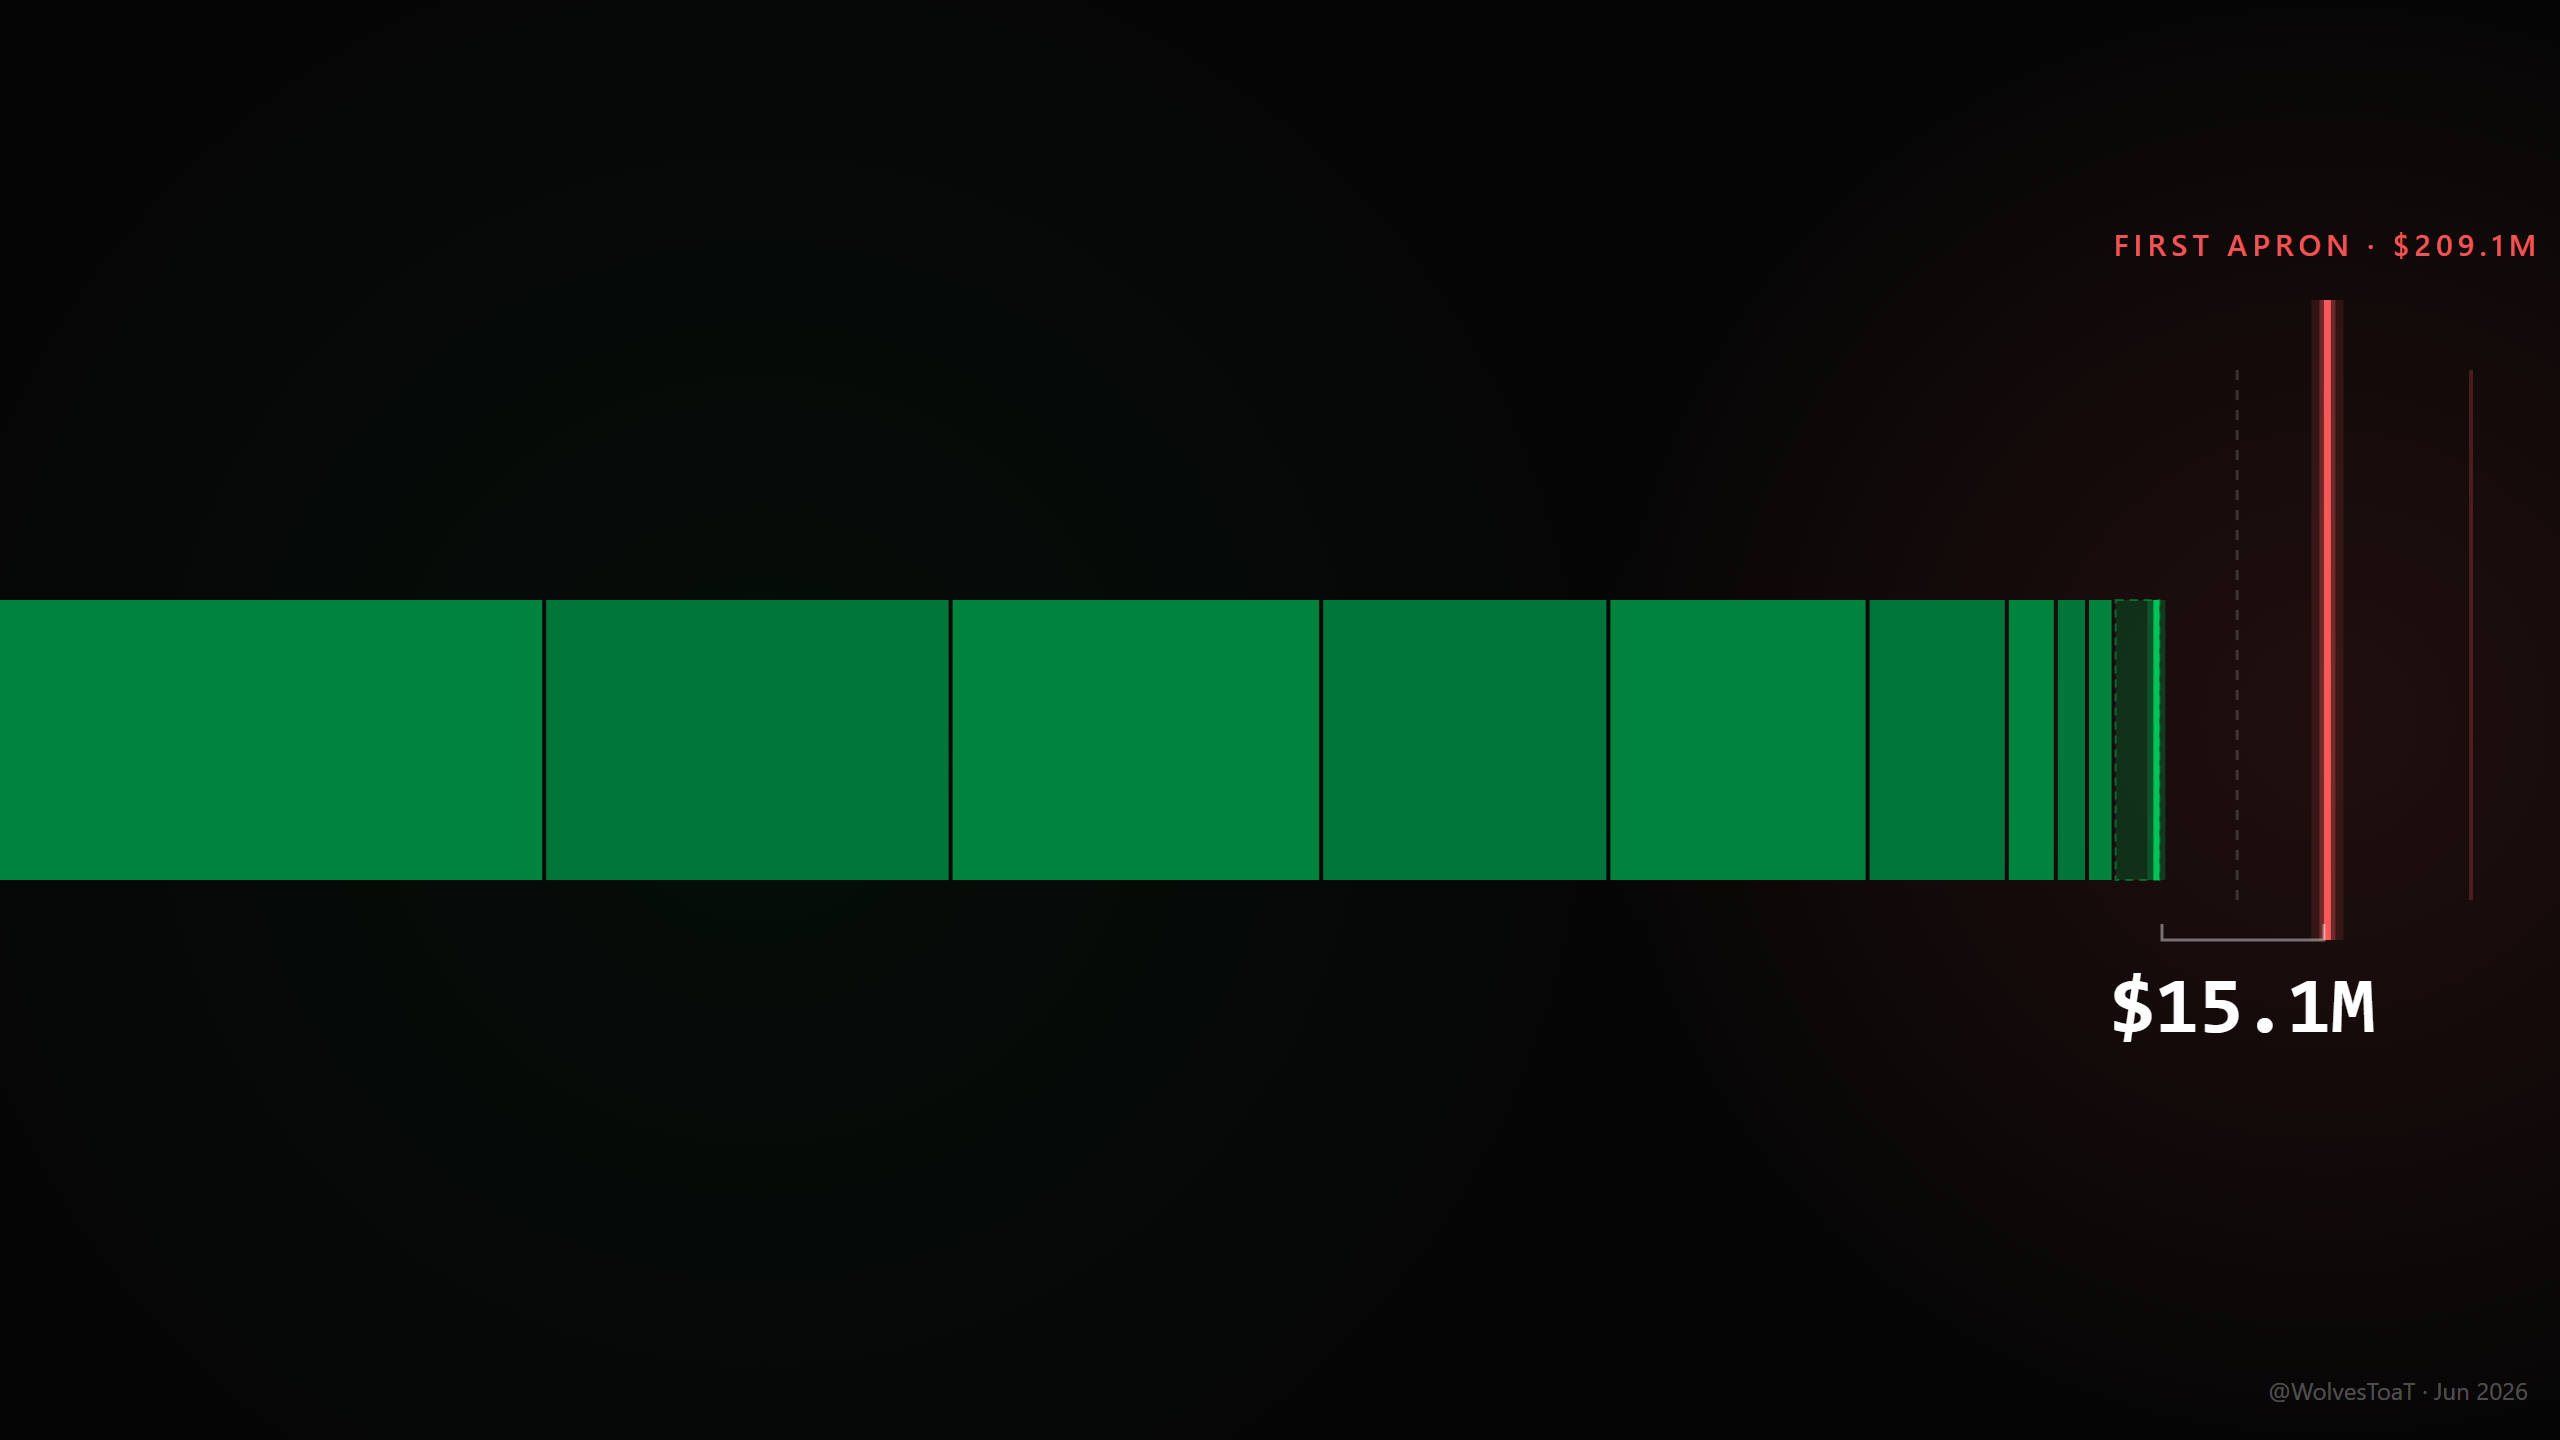
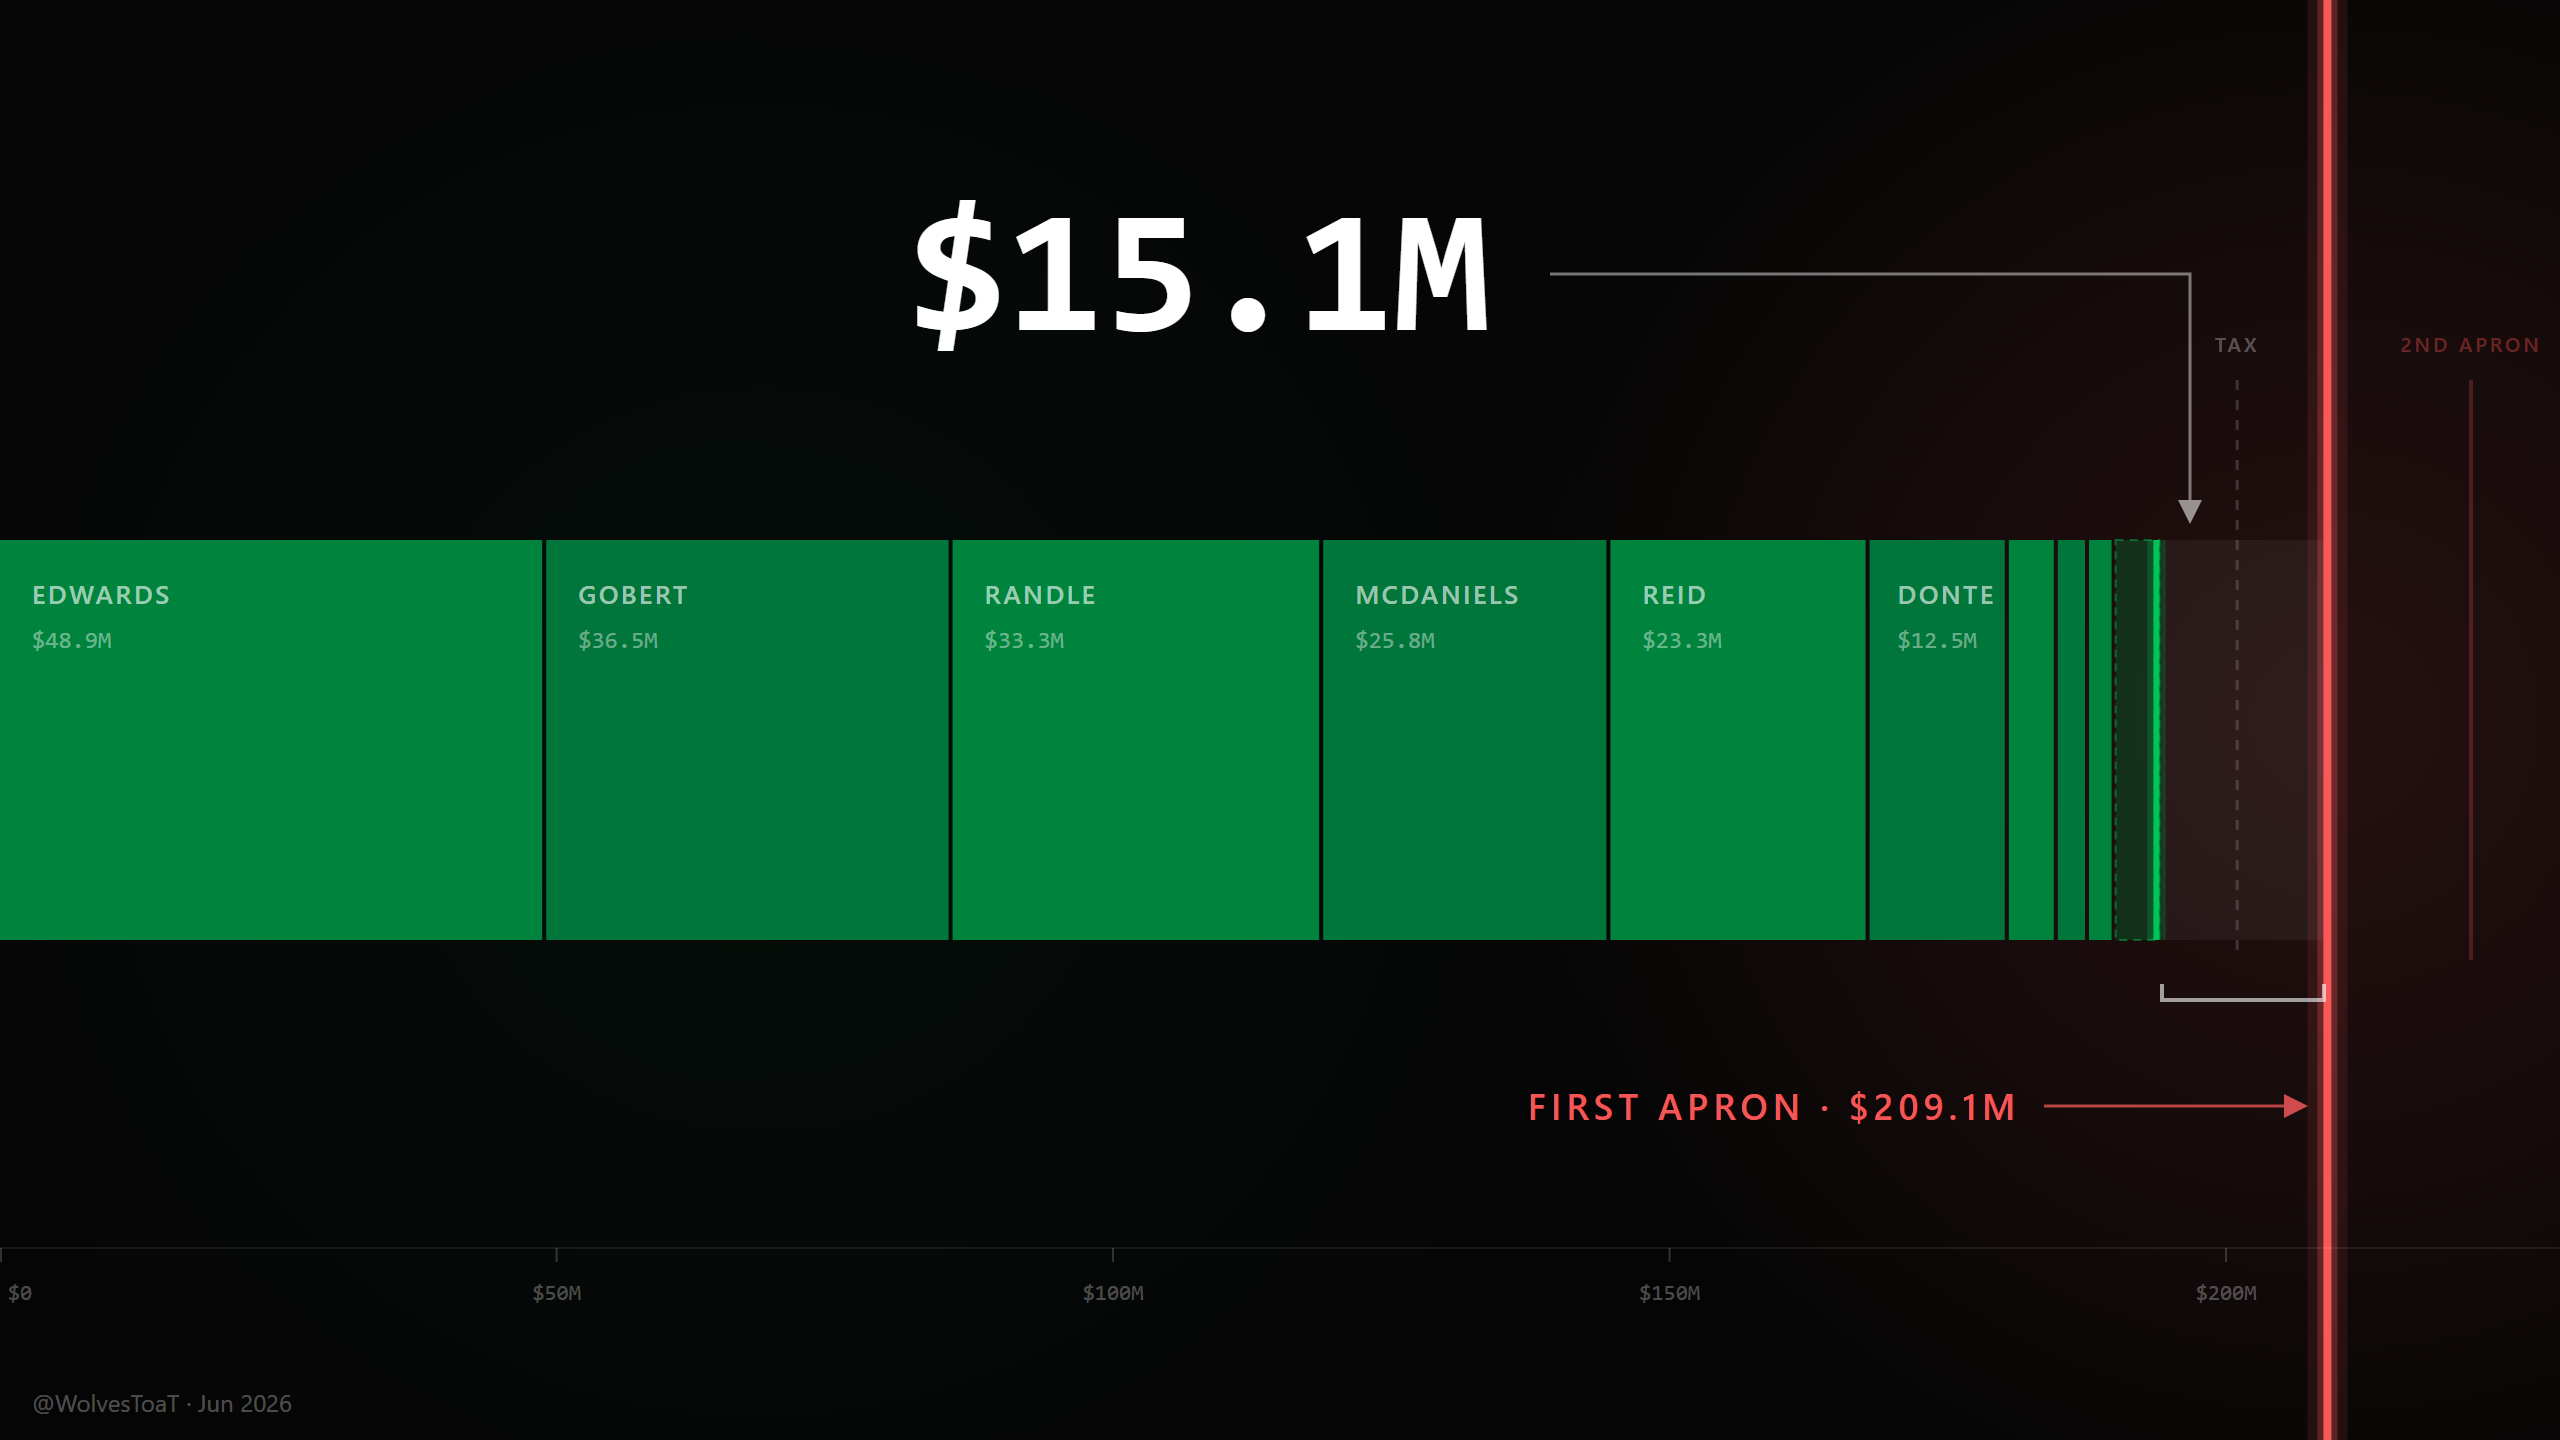
Thumb v2: fill the frame, callout style per red pen
Contract names inside the segments, true-scale ruler, full-bleed apron
wall, hero $15.1M in the open middle with a leader into the gap, FIRST
APRON callout pointing at the line.

diff --git a/offseason/outputs/charts/piece1_situation/situation_thumb.html b/offseason/outputs/charts/piece1_situation/situation_thumb.html
@@ -2,14 +2,14 @@
 <!-- Piece 1 thumbnail, 16:9. True scale: $0 to $230M across 1280px (5.5652 px per $M).
      The bar is the real 2026-27 books, nine contracts plus the roster charge stub,
      each segment at its true width. Walls: tax $201M (faint), first apron $209.1M
-     (the one that matters), second apron $222M (dim). Gap = $15.1M.
+     (full bleed, the one that matters), second apron $222M (dim). Gap = $15.1M.
      Glows are layered strokes, not filters: a filter on a zero-width line collapses
      its bounding box and the element disappears. -->
 <svg width="1280" height="720" viewBox="0 0 1280 720" xmlns="http://www.w3.org/2000/svg">
 <defs>
   <radialGradient id="amb-red" cx="50%" cy="50%" r="50%">
-    <stop offset="0%" stop-color="#FF5C5C" stop-opacity="0.11"/>
-    <stop offset="60%" stop-color="#FF5C5C" stop-opacity="0.05"/>
+    <stop offset="0%" stop-color="#FF5C5C" stop-opacity="0.13"/>
+    <stop offset="60%" stop-color="#FF5C5C" stop-opacity="0.06"/>
     <stop offset="100%" stop-color="#FF5C5C" stop-opacity="0"/>
   </radialGradient>
   <radialGradient id="amb-green" cx="50%" cy="50%" r="50%">
@@ -22,53 +22,101 @@
 
 <!-- ambient depth, soft falloff -->
 <circle cx="380" cy="380" r="460" fill="url(#amb-green)"/>
-<circle cx="1164" cy="360" r="380" fill="url(#amb-red)"/>
+<circle cx="1164" cy="360" r="420" fill="url(#amb-red)"/>
 
 <!-- tax line, $201M, faint dashed -->
-<line x1="1118.6" y1="185" x2="1118.6" y2="450" stroke="rgba(255,255,255,0.16)" stroke-width="1.5" stroke-dasharray="5,5"/>
+<line x1="1118.6" y1="190" x2="1118.6" y2="480" stroke="rgba(255,255,255,0.16)" stroke-width="1.5" stroke-dasharray="5,5"/>
+<text x="1118.6" y="176" text-anchor="middle" fill="rgba(255,255,255,0.30)"
+  font-family="Segoe UI, Inter, sans-serif" font-size="10" font-weight="600" letter-spacing="1.5">TAX</text>
 <!-- second apron, $222M, dim -->
-<line x1="1235.5" y1="185" x2="1235.5" y2="450" stroke="#FF5C5C" stroke-width="2" opacity="0.22"/>
-<!-- first apron, $209.1M, the one that matters: layered manual glow -->
-<line x1="1163.7" y1="150" x2="1163.7" y2="470" stroke="#FF5C5C" stroke-width="16" opacity="0.12"/>
-<line x1="1163.7" y1="150" x2="1163.7" y2="470" stroke="#FF5C5C" stroke-width="8" opacity="0.28"/>
-<line x1="1163.7" y1="150" x2="1163.7" y2="470" stroke="#FF5C5C" stroke-width="3.5" opacity="0.95"/>
+<line x1="1235.5" y1="190" x2="1235.5" y2="480" stroke="#FF5C5C" stroke-width="2" opacity="0.22"/>
+<text x="1235.5" y="176" text-anchor="middle" fill="rgba(255,92,92,0.35)"
+  font-family="Segoe UI, Inter, sans-serif" font-size="10" font-weight="600" letter-spacing="1.5">2ND APRON</text>
 
-<text x="1163.7" y="128" text-anchor="middle" fill="#FF5C5C" opacity="0.92"
-  font-family="Segoe UI, Inter, sans-serif" font-size="15" font-weight="600" letter-spacing="2.5">FIRST APRON &#183; $209.1M</text>
+<!-- first apron, $209.1M: full bleed, layered manual glow -->
+<line x1="1163.7" y1="0" x2="1163.7" y2="720" stroke="#FF5C5C" stroke-width="20" opacity="0.10"/>
+<line x1="1163.7" y1="0" x2="1163.7" y2="720" stroke="#FF5C5C" stroke-width="10" opacity="0.26"/>
+<line x1="1163.7" y1="0" x2="1163.7" y2="720" stroke="#FF5C5C" stroke-width="4" opacity="0.95"/>
+
+<!-- the wall's callout, lower right, pointing at the line -->
+<text x="1010" y="560" text-anchor="end" fill="#FF5C5C" opacity="0.95"
+  font-family="Segoe UI, Inter, sans-serif" font-size="18" font-weight="600" letter-spacing="2.5">FIRST APRON &#183; $209.1M</text>
+<line x1="1022" y1="553" x2="1142" y2="553" stroke="rgba(255,92,92,0.7)" stroke-width="1.5"/>
+<path d="M 1142 547 L 1154 553 L 1142 559 Z" fill="rgba(255,92,92,0.8)"/>
 
 <!-- the books: nine contracts plus the roster charge stub, true widths, 2px seams -->
 <!-- Edwards 48.9 -->
-<rect x="0" y="300" width="271.1" height="140" fill="#00843D"/>
+<rect x="0" y="270" width="271.1" height="200" fill="#00843D"/>
 <!-- Gobert 36.5 -->
-<rect x="273.1" y="300" width="201.2" height="140" fill="#00763A"/>
+<rect x="273.1" y="270" width="201.2" height="200" fill="#00763A"/>
 <!-- Randle 33.3 -->
-<rect x="476.3" y="300" width="183.3" height="140" fill="#00843D"/>
+<rect x="476.3" y="270" width="183.3" height="200" fill="#00843D"/>
 <!-- McDaniels 25.8 -->
-<rect x="661.6" y="300" width="141.6" height="140" fill="#00763A"/>
+<rect x="661.6" y="270" width="141.6" height="200" fill="#00763A"/>
 <!-- Naz 23.3 -->
-<rect x="805.2" y="300" width="127.6" height="140" fill="#00843D"/>
+<rect x="805.2" y="270" width="127.6" height="200" fill="#00843D"/>
 <!-- DiVincenzo 12.5 -->
-<rect x="934.8" y="300" width="67.6" height="140" fill="#00763A"/>
+<rect x="934.8" y="270" width="67.6" height="200" fill="#00763A"/>
 <!-- Beringer 4.4 -->
-<rect x="1004.4" y="300" width="22.5" height="140" fill="#00843D"/>
+<rect x="1004.4" y="270" width="22.5" height="200" fill="#00843D"/>
 <!-- Shannon 2.8 -->
-<rect x="1028.9" y="300" width="13.6" height="140" fill="#00763A"/>
+<rect x="1028.9" y="270" width="13.6" height="200" fill="#00763A"/>
 <!-- Phillips 2.4 -->
-<rect x="1044.5" y="300" width="11.3" height="140" fill="#00843D"/>
+<rect x="1044.5" y="270" width="11.3" height="200" fill="#00843D"/>
 <!-- roster charges 4.1, a placeholder not a contract -->
-<rect x="1057.8" y="300" width="21.9" height="140" fill="#00843D" fill-opacity="0.30"
+<rect x="1057.8" y="270" width="21.9" height="200" fill="#00843D" fill-opacity="0.30"
   stroke="rgba(0,196,87,0.45)" stroke-width="1" stroke-dasharray="4,3"/>
 
+<!-- names inside the big segments: the books, readable -->
+<g font-family="Segoe UI, Inter, sans-serif" font-size="13" font-weight="600" letter-spacing="1.2" fill="rgba(255,255,255,0.62)">
+  <text x="16" y="302">EDWARDS</text>
+  <text x="289.1" y="302">GOBERT</text>
+  <text x="492.3" y="302">RANDLE</text>
+  <text x="677.6" y="302">MCDANIELS</text>
+  <text x="821.2" y="302">REID</text>
+  <text x="948.8" y="302">DONTE</text>
+</g>
+<g font-family="JetBrains Mono, Consolas, monospace" font-size="12" fill="rgba(255,255,255,0.42)">
+  <text x="16" y="324">$48.9M</text>
+  <text x="289.1" y="324">$36.5M</text>
+  <text x="492.3" y="324">$33.3M</text>
+  <text x="677.6" y="324">$25.8M</text>
+  <text x="821.2" y="324">$23.3M</text>
+  <text x="948.8" y="324">$12.5M</text>
+</g>
+
+<!-- the room itself, faintly lit -->
+<rect x="1082" y="270" width="79.7" height="200" fill="rgba(255,255,255,0.05)"/>
+
 <!-- leading edge of the money, manual glow -->
-<rect x="1073.7" y="300" width="9" height="140" fill="#00C457" opacity="0.25"/>
-<rect x="1076.7" y="300" width="3" height="140" fill="#00C457"/>
+<rect x="1073.7" y="270" width="9" height="200" fill="#00C457" opacity="0.25"/>
+<rect x="1076.7" y="270" width="3" height="200" fill="#00C457"/>
 
-<!-- the gap: bracket plus the only big number -->
-<path d="M 1081 462 L 1081 470 L 1162 470 L 1162 462" fill="none" stroke="rgba(255,255,255,0.42)" stroke-width="1.5"/>
-<text x="1121.5" y="516" text-anchor="middle" fill="#FFFFFF"
-  font-family="JetBrains Mono, Consolas, monospace" font-size="40" font-weight="700">$15.1M</text>
+<!-- the gap: bracket under it, hero number in the open middle, leader pointing in -->
+<path d="M 1081 492 L 1081 500 L 1162 500 L 1162 492" fill="none" stroke="rgba(255,255,255,0.6)" stroke-width="2"/>
+<text x="600" y="165" text-anchor="middle" fill="#FFFFFF"
+  font-family="JetBrains Mono, Consolas, monospace" font-size="88" font-weight="700">$15.1M</text>
+<path d="M 775 137 L 1095 137 L 1095 250" fill="none" stroke="rgba(255,255,255,0.45)" stroke-width="1.5"/>
+<path d="M 1089 250 L 1101 250 L 1095 262 Z" fill="rgba(255,255,255,0.55)"/>
 
-<!-- watermark -->
-<text x="1264" y="700" text-anchor="end" fill="rgba(255,255,255,0.30)"
+<!-- true-scale ruler along the bottom -->
+<line x1="0" y1="624" x2="1280" y2="624" stroke="rgba(255,255,255,0.08)" stroke-width="1"/>
+<g stroke="rgba(255,255,255,0.18)" stroke-width="1">
+  <line x1="0.5" y1="624" x2="0.5" y2="631"/>
+  <line x1="278.3" y1="624" x2="278.3" y2="631"/>
+  <line x1="556.5" y1="624" x2="556.5" y2="631"/>
+  <line x1="834.8" y1="624" x2="834.8" y2="631"/>
+  <line x1="1113" y1="624" x2="1113" y2="631"/>
+</g>
+<g font-family="JetBrains Mono, Consolas, monospace" font-size="11" fill="rgba(255,255,255,0.28)">
+  <text x="4" y="650" text-anchor="start">$0</text>
+  <text x="278.3" y="650" text-anchor="middle">$50M</text>
+  <text x="556.5" y="650" text-anchor="middle">$100M</text>
+  <text x="834.8" y="650" text-anchor="middle">$150M</text>
+  <text x="1113" y="650" text-anchor="middle">$200M</text>
+</g>
+
+<!-- watermark, bottom left this time: the wall owns the bottom right corner -->
+<text x="16" y="706" text-anchor="start" fill="rgba(255,255,255,0.30)"
   font-family="Segoe UI, Inter, sans-serif" font-size="12">@WolvesToaT &#183; Jun 2026</text>
 </svg></body></html>
